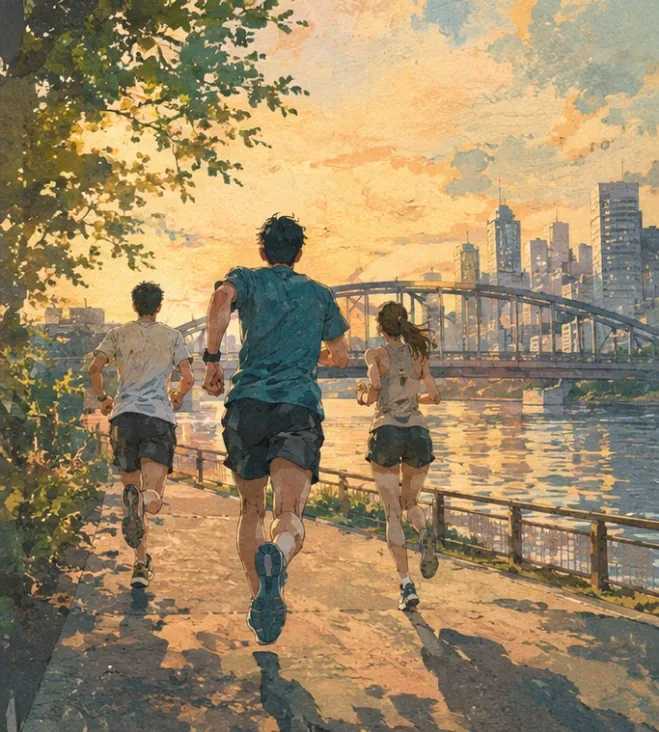
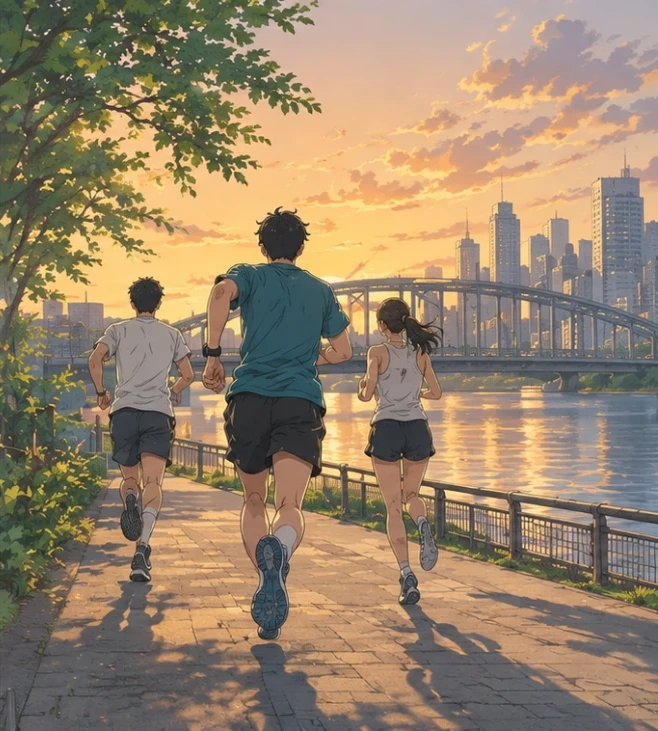
Gambar carousel 1.1 diganti versi lebih jelas (3 panel baru, urutan sama)
Claude-Session: https://claude.ai/code/session_0117N1BYai5TmskcWkBEB39w

diff --git a/apps/app/src/app/welcome.tsx b/apps/app/src/app/welcome.tsx
@@ -35,7 +35,7 @@ import { IMAGES, type ImageKey } from '@/lib/imagery';
 // fx = titik fokus horizontal subjek di gambar; rasio gambar 658 x 732.
 const SLIDES: { image: ImageKey; key: 's1' | 's2' | 's3'; fx: number }[] = [
   { image: 'promoScience', key: 's1', fx: 0.24 },
-  { image: 'promoPrivacy', key: 's2', fx: 0.45 },
+  { image: 'promoPrivacy', key: 's2', fx: 0.5 },
   { image: 'promoCompanion', key: 's3', fx: 0.42 },
 ];
 const PROMO_ASPECT = 658 / 732;
